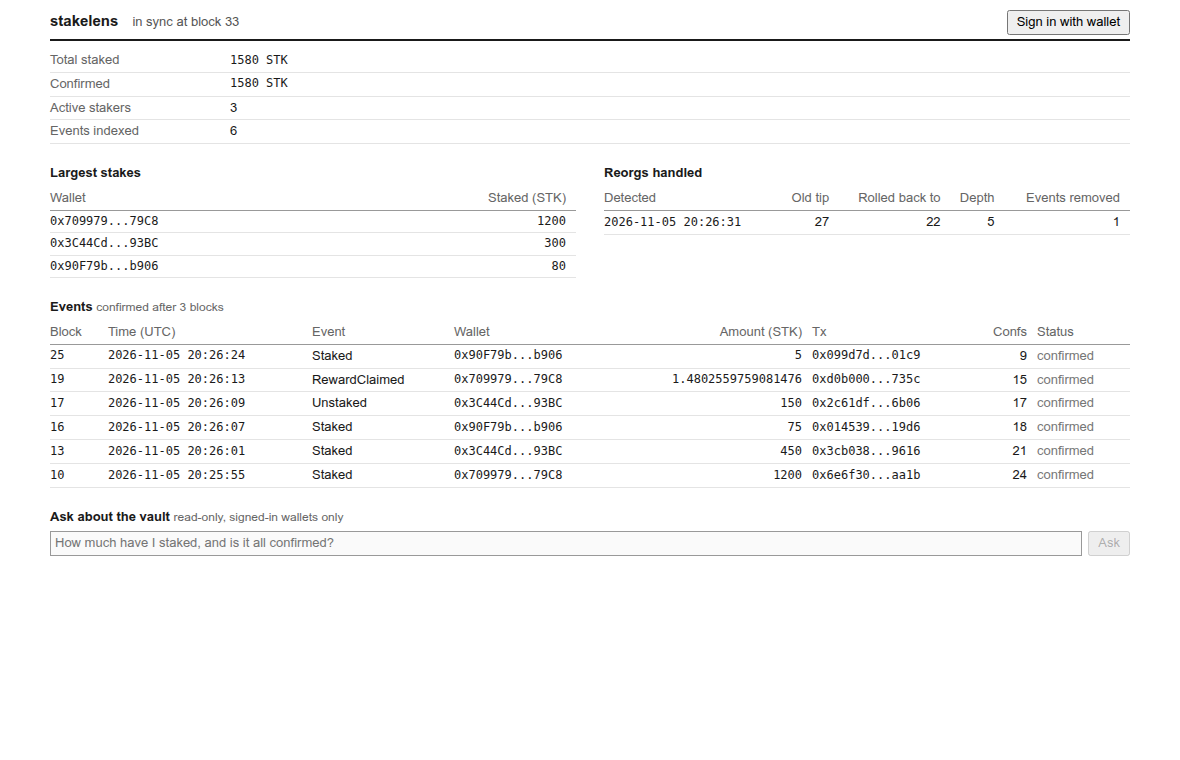
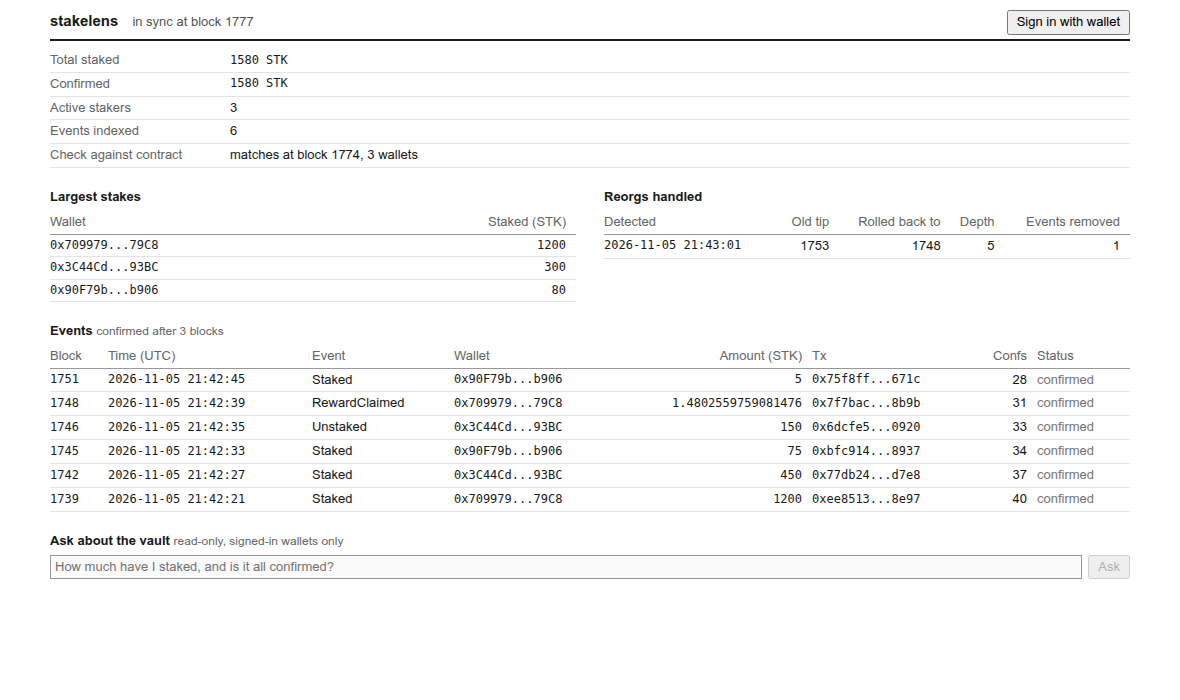
docs: describe failover, reconciliation, queue, and sepolia deployment

diff --git a/README.md b/README.md
@@ -1,6 +1,6 @@
 # stakelens
 
-A backend for on-chain staking data: a Solidity staking vault, an event indexer that survives chain reorganisations, wallet sign-in, and a read-only assistant that answers questions from the indexed data.
+A backend for on-chain staking data: a Solidity staking vault, an event indexer that survives chain reorganisations and RPC outages, a crash-safe transaction queue, wallet sign-in, and a read-only assistant that answers questions from the indexed data.
 
 **Status: MVP.** It runs end to end on a local EVM chain. It has not been deployed to a public network, and the contracts have not been audited.
 
@@ -18,6 +18,10 @@ StakingVault.sol  --events-->  indexer  --writes-->  Postgres  <--reads--  FastA
 |---|---|---|
 | Contracts | [contracts/src](contracts/src) | ERC-20 token and a staking vault with pro rata rewards. No owner or admin functions. |
 | Indexer | [app/indexer.py](app/indexer.py) | Follows the chain block by block and rolls back on forks. |
+| RPC layer | [app/chain.py](app/chain.py) | Fails over between providers and adapts to their log query limits. |
+| Reconciliation | [app/reconcile.py](app/reconcile.py) | Keeps checking that indexed balances match the contract. |
+| Transaction queue | [app/txqueue.py](app/txqueue.py) | Sends transactions safely through crashes, stuck fees, and reorgs. |
+| Metrics and alerts | [app/metrics.py](app/metrics.py), [ops/alerts.yml](ops/alerts.yml) | Prometheus metrics and alert rules. |
 | Read layer | [app/queries.py](app/queries.py) | Derives balances from events in SQL. Used by both the API and the assistant. |
 | Sign-in | [app/auth.py](app/auth.py) | Sign-In with Ethereum (EIP-4361) with single-use nonces. |
 | Assistant | [app/assistant.py](app/assistant.py) | Claude with five read-only tools. It holds no keys and cannot write anything. |
@@ -25,6 +29,18 @@ StakingVault.sol  --events-->  indexer  --writes-->  Postgres  <--reads--  FastA
 ## Design decisions
 
 **Reorgs are detected, not avoided.** Waiting for finality alone would hide data for minutes and still needs a recovery path. Each new block's parent hash is compared with the stored hash of the previous block. On a mismatch, the indexer walks back to the common ancestor, deletes everything above it, records the reorg, and carries on. A fork deeper than `MAX_REORG_DEPTH` stops the indexer for an operator instead of unwinding automatically.
+
+**A lower block number is not a reorg.** A backup node can simply be a few blocks behind, so a rollback only happens when a block hash actually disagrees. Otherwise failing over could delete good data.
+
+**History is cheap, the head is careful.** Blocks too old to reorg are fetched in log ranges, and the range shrinks automatically to fit the provider's limit. Blocks near the head go one at a time. See [the numbers](docs/benchmarks.md).
+
+**RPC URLs are treated as secrets.** Provider URLs usually contain an API key, so endpoints are only logged by position. A test checks this.
+
+**The index is checked against the contract.** Balances are derived from events, so a missed event would otherwise go unnoticed. A background job compares totals and the largest wallets with the contract's state at the same confirmed block, and a mismatch raises an alert.
+
+**Transactions are saved before they are sent.** After a crash the worker rebroadcasts the same signed bytes, and retries and fee bumps reuse the nonce, so only one version can ever be mined. Repeating an idempotency key never sends twice. One transaction per sender is in flight until confirmed, which gives up throughput for much simpler ordering. The signing key lives only in the worker, behind an interface a KMS signer can implement.
+
+**Gas buffers are measured.** An estimate sees the current block, but a vault call that lands later can write up to three more storage slots. A percentage buffer failed on cheap calls, so the limit is 120% of the estimate plus a flat 70,000 gas, and a test checks the worst case for each action.
 
 **Pending and confirmed are separate numbers.** The API shows new events immediately and reports both `staked` and `confirmed_staked`, so a client can decide which one to trust.
 
@@ -66,6 +82,35 @@ make check       # compares every indexed balance with the contract
 
 Signing in from the dashboard needs a browser wallet such as MetaMask, connected to the local chain (`http://127.0.0.1:8545`, chain ID 31337).
 
+To send a transaction through the queue, set `TX_SIGNER_PRIVATE_KEY` in `.env`, then:
+
+```sh
+make txworker    # in its own terminal
+uv run python -m app.txworker fund-rewards --tokens 1000 --key topup-1
+uv run python -m app.txworker list
+```
+
+## Deploy to Sepolia
+
+Set these in `.env`, using a wallet that only ever holds testnet funds:
+
+```sh
+RPC_URL=your-provider-url
+RPC_FALLBACK_URLS=https://ethereum-sepolia-rpc.publicnode.com
+CHAIN_ID=11155111
+DEPLOYER_PRIVATE_KEY=your-throwaway-key
+ETHERSCAN_API_KEY=your-etherscan-key
+POLL_SECONDS=6
+```
+
+```sh
+make deploy
+make verify        # `make verify-check` builds the submissions without sending them
+make indexer
+```
+
+Sepolia makes a block every 12 seconds. A slower poll keeps the indexer inside free RPC plans.
+
 ## Tests
 
 ```sh
@@ -73,9 +118,16 @@ make test-contracts   # unit, fuzz, and invariant tests
 make chain-test       # instant-mining chain for end-to-end tests, in its own terminal
 make build
 make test             # backend tests
+make mutation         # breaks safety rules one at a time and checks that the tests notice
+make benchmark        # writes docs/benchmarks.md
+make alerts-check     # validates the alert rules with promtool
 ```
 
 The backend tests use real Postgres. Reorg logic is covered twice: against a fake chain that can fork at exact points, and against a real EVM node with real forks. The end-to-end tests are skipped when no node is running.
+
+[tests/test_resilience.py](tests/test_resilience.py) runs the real indexer process through `kill -9` mid-run, a full RPC outage, a failed and a rate-limited primary, a second indexer starting by mistake, a rebuild from an empty database, and a provider with a small log limit, then checks the data against the contract each time.
+
+[tests/test_txqueue.py](tests/test_txqueue.py) runs the queue against a real node: stuck transactions, a crash on either side of the broadcast, a reorg removing a mined transaction, reverting requests, the fee cap, and a nonce taken by an outside transaction.
 
 The assistant's tests run the real Anthropic SDK against a local stub. They check the requests and the tool loop, not the quality of the answers.
 
@@ -88,6 +140,8 @@ The assistant's tests run the real Anthropic SDK against a local stub. They chec
 | `GET /vault/events` | | Recent events with confirmation status |
 | `GET /vault/stakers` | | Largest stakes |
 | `GET /vault/reorgs` | | Reorgs handled |
+| `GET /vault/reconciliation` | | Latest check against the contract |
+| `GET /metrics` | | Prometheus metrics read from the database |
 | `GET /wallets/{address}/position` | | One wallet's balance |
 | `GET /wallets/{address}/events` | | One wallet's events |
 | `POST /auth/challenge` | | Get a message to sign |
@@ -99,11 +153,13 @@ Interactive docs are at `/docs` while the API is running.
 
 ## Known limits
 
-- Blocks are fetched one at a time, which is simple but slow when catching up over a long range. `eth_getLogs` over ranges would be the next step.
-- All indexed blocks are kept. There is no pruning below the maximum reorg depth yet.
+- It has only run against a local chain. Deployment and Etherscan verification are built, but have not been run on a public network.
+- The transaction queue sends one transaction per sender at a time, so throughput is limited by confirmation time. Signing uses a local key. KMS support is an interface, not an implementation.
+- `/metrics` is unauthenticated, so keep it behind a private network in production.
+- Blocks indexed through log ranges are not all stored, so a fork deeper than `MAX_REORG_DEPTH` stops the indexer rather than unwinding.
+- Blocks indexed one at a time are all kept. There is no pruning yet.
 - Smart contract wallets (ERC-1271) can't sign in.
 - It tracks one vault on one chain.
-- `scripts/deploy.py` supports other networks through `RPC_URL`, `CHAIN_ID`, and `DEPLOYER_PRIVATE_KEY`, but has only been run against a local chain.
 
 ## License
 
